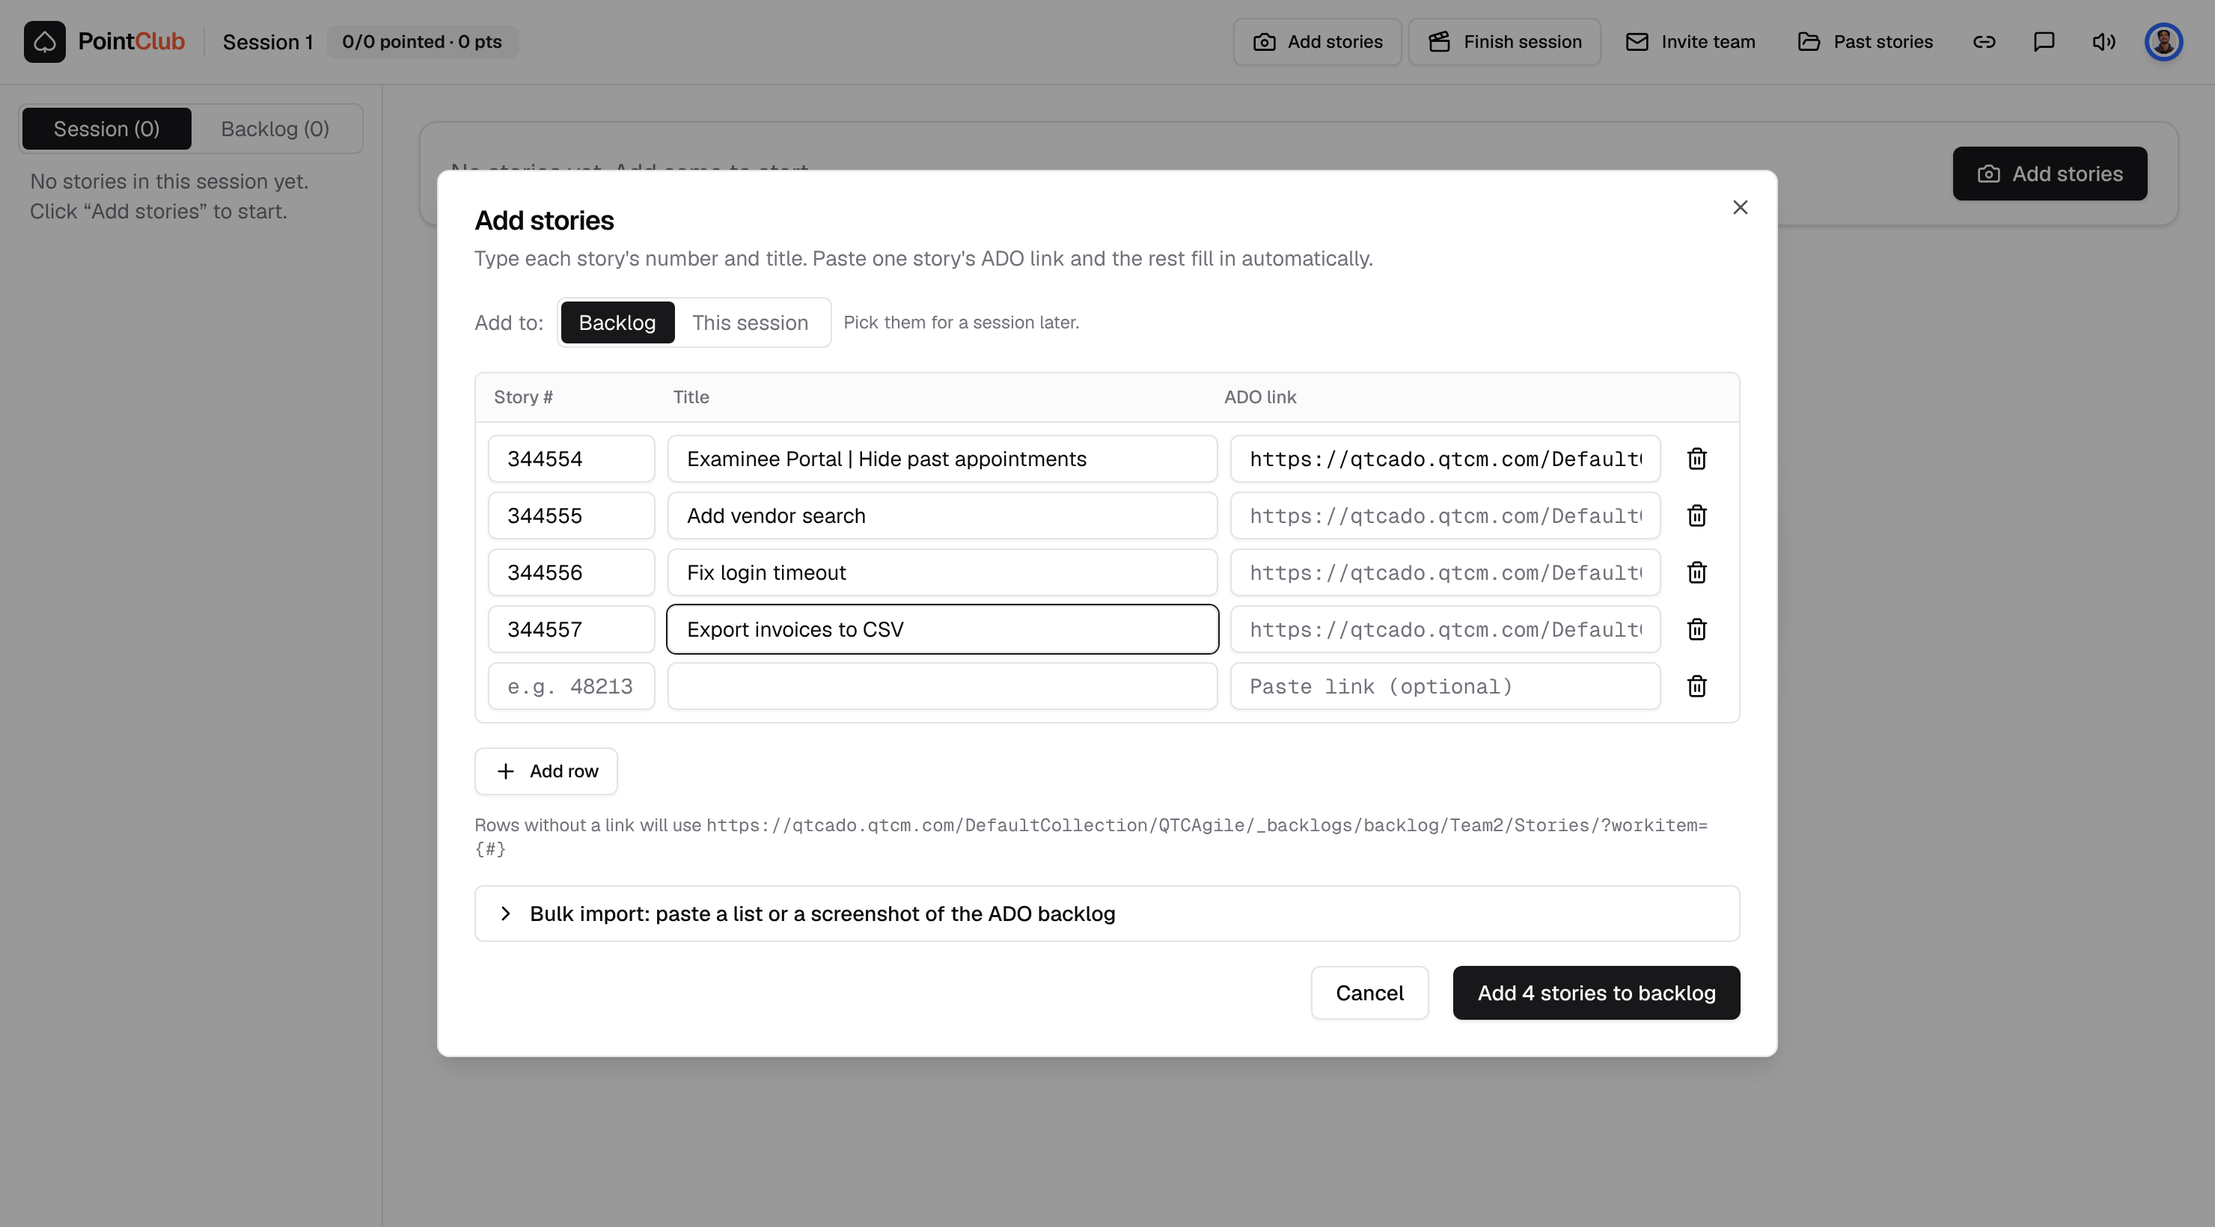
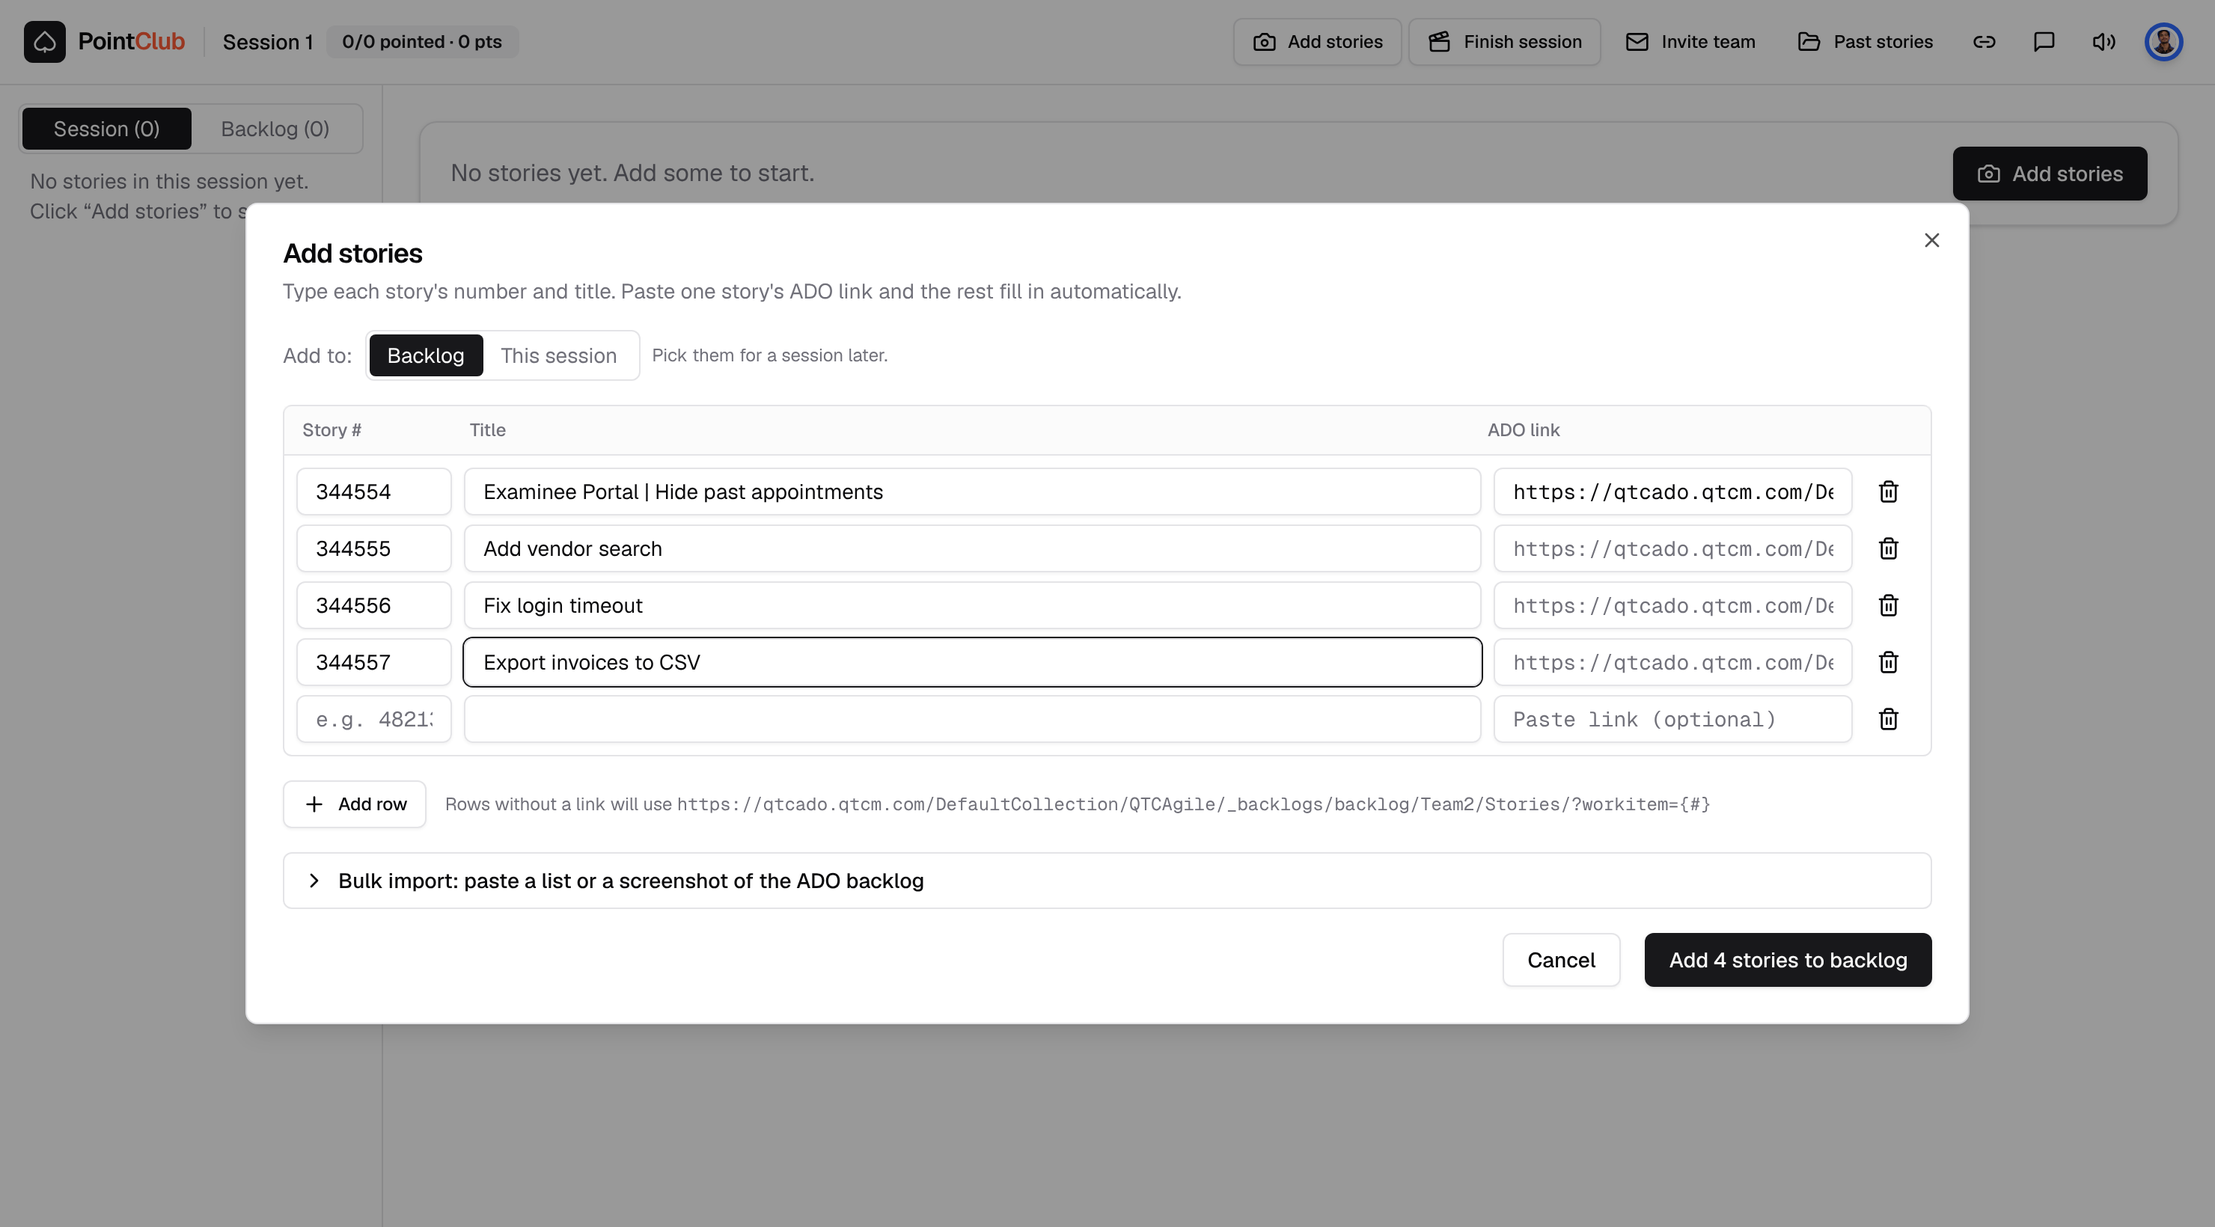
Read ADO backlog screenshots: work item IDs, several at once, bundled reader
Claude-Session: https://claude.ai/code/session_01EANrJrMtc4n72hiZrseqCf

Changed region(s): [[0.0932, 0.1244, 0.9014, 0.8707], [0.5595, 0.311, 0.5905, 0.3421]]

diff --git a/src/screens/LoadStories.tsx b/src/screens/LoadStories.tsx
@@ -33,7 +33,8 @@ export function LoadStories({ api, open, onClose, defaultTo = 'backlog' }: { api
   const [raw, setRaw] = useState('')
   const [bulkOpen, setBulkOpen] = useState(false)
   const [progress, setProgress] = useState<number | null>(null)
-  const [preview, setPreview] = useState<string | null>(null)
+  const [shots, setShots] = useState<{ thumb: string; found: number | null }[]>([])
+  const setPreview = (_: null) => setShots([])
   const [saving, setSaving] = useState(false)
   const [error, setError] = useState<string | null>(null)
   const [savedNote, setSavedNote] = useState<string | null>(null)
@@ -61,12 +62,24 @@ export function LoadStories({ api, open, onClose, defaultTo = 'backlog' }: { api
     return [...merged, blank()]
   })
 
-  const handleImage = async (file: Blob) => {
-    setPreview(URL.createObjectURL(file)); setProgress(0); setError(null)
-    try { const text = await readImage(file, setProgress); setRaw(text); addParsed(parseStories(text)) }
-    catch (e: any) { setError('Could not read the screenshot: ' + (e?.message ?? e)) }
+  /** Read one or more screenshots in turn; each adds its stories to the table (no duplicate IDs). */
+  const handleImages = async (files: Blob[]) => {
+    setError(null)
+    for (const file of files.filter((f) => f.type.startsWith('image/'))) {
+      const thumb = URL.createObjectURL(file)
+      setShots((s) => [...s, { thumb, found: null }]); setProgress(0)
+      try {
+        const found = parseStories(await readImage(file, setProgress))
+        addParsed(found)
+        setShots((s) => s.map((x) => (x.thumb === thumb ? { ...x, found: found.length } : x)))
+      } catch (e: any) {
+        setShots((s) => s.filter((x) => x.thumb !== thumb))
+        setError('Could not read a screenshot: ' + (e?.message ?? e))
+      }
+    }
     setProgress(null)
   }
+  const handleImage = (file: Blob) => handleImages([file])
   useEffect(() => {
     if (!open) return
     const onPaste = (e: ClipboardEvent) => {
@@ -91,7 +104,7 @@ export function LoadStories({ api, open, onClose, defaultTo = 'backlog' }: { api
 
   return (
     <Dialog open={open} onOpenChange={(o) => !o && !saving && onClose()}>
-      <DialogContent className="max-w-4xl">
+      <DialogContent className="max-w-6xl">
         <DialogHeader>
           <DialogTitle>Add stories</DialogTitle>
           <DialogDescription>Type each story's number and title. Paste one story's ADO link and the rest fill in automatically.</DialogDescription>
@@ -111,14 +124,14 @@ export function LoadStories({ api, open, onClose, defaultTo = 'backlog' }: { api
         </div>
 
         <div className="rounded-md border">
-          <div className="grid grid-cols-[7rem_1fr_minmax(0,18rem)_2.25rem] gap-2 border-b bg-muted/40 px-3 py-2 text-xs font-medium text-muted-foreground">
+          <div className="grid grid-cols-[6.5rem_1fr_minmax(0,15rem)_2.25rem] gap-2 border-b bg-muted/40 px-3 py-2 text-xs font-medium text-muted-foreground">
             <span>Story #</span><span>Title</span><span>ADO link</span><span />
           </div>
           <div className="max-h-[42vh] overflow-y-auto p-2 grid gap-1.5">
             {rows.map((r, i) => (
-              <div key={i} className="grid grid-cols-[7rem_1fr_minmax(0,18rem)_2.25rem] items-center gap-2">
+              <div key={i} className="grid grid-cols-[6.5rem_1fr_minmax(0,15rem)_2.25rem] items-center gap-2">
                 <Input className="h-8 font-mono" placeholder="e.g. 48213" inputMode="numeric" value={r.number} onChange={(e) => setRow(i, { number: e.target.value.replace(/\D/g, '') })} aria-label={`Story number, row ${i + 1}`} />
-                <Input className="h-8" placeholder={i === 0 ? 'Story title' : ''} value={r.title} onChange={(e) => setRow(i, { title: e.target.value })} aria-label={`Title, row ${i + 1}`} />
+                <Input className="h-8" title={r.title} placeholder={i === 0 ? "Story title" : ""} value={r.title} onChange={(e) => setRow(i, { title: e.target.value })} aria-label={`Title, row ${i + 1}`} />
                 <Input className="h-8 font-mono text-xs" placeholder={r.number && pattern ? buildAdoUrl(pattern, r.number) : 'Paste link (optional)'} value={r.url} onChange={(e) => setRow(i, { url: e.target.value })} aria-label={`ADO link, row ${i + 1}`} />
                 <Button variant="ghost" size="icon" className="h-8 w-8" aria-label="Remove row" onClick={() => setRows((x) => (x.length > 1 ? x.filter((_, j) => j !== i) : [blank()]))}><Trash2 /></Button>
               </div>
@@ -136,12 +149,30 @@ export function LoadStories({ api, open, onClose, defaultTo = 'backlog' }: { api
           </button>
           {bulkOpen && (
             <div className="grid grid-cols-2 gap-4 border-t p-3">
-              <label className="flex min-h-36 cursor-pointer flex-col items-center justify-center gap-2 rounded-lg border border-dashed p-4 text-center text-sm text-muted-foreground transition-colors hover:bg-secondary/50"
-                onDragOver={(e) => e.preventDefault()} onDrop={(e) => { e.preventDefault(); const f = e.dataTransfer.files[0]; if (f) handleImage(f) }}>
-                <input type="file" accept="image/*" className="hidden" onChange={(e) => e.target.files?.[0] && handleImage(e.target.files[0])} />
-                {preview ? <img src={preview} className="max-h-32 rounded-md" /> : <><ImageUp className="h-7 w-7" /><span>Drop a screenshot, click to choose, or press <kbd className="rounded border bg-muted px-1 font-mono text-xs">Ctrl V</kbd><br /><span className="text-xs">Read on this computer, never uploaded.</span></span></>}
-                {progress != null && <span className="flex items-center gap-2 text-foreground"><Loader2 className="h-4 w-4 animate-spin" /> Reading… {Math.round(progress * 100)}%</span>}
-              </label>
+              <div className="grid gap-2">
+                <label className="flex min-h-28 cursor-pointer flex-col items-center justify-center gap-2 rounded-lg border border-dashed p-4 text-center text-sm text-muted-foreground transition-colors hover:bg-secondary/50"
+                  onDragOver={(e) => e.preventDefault()} onDrop={(e) => { e.preventDefault(); handleImages([...e.dataTransfer.files]) }}>
+                  <input type="file" accept="image/*" multiple className="hidden" onChange={(e) => { handleImages([...(e.target.files ?? [])]); e.target.value = '' }} />
+                  <ImageUp className="h-7 w-7" />
+                  <span>Drop ADO screenshots here, click to choose (several at once is fine), or press <kbd className="rounded border bg-muted px-1 font-mono text-xs">Ctrl V</kbd><br /><span className="text-xs">Read on this computer, never uploaded.</span></span>
+                  {progress != null && <span className="flex items-center gap-2 text-foreground"><Loader2 className="h-4 w-4 animate-spin" /> Reading… {Math.round(progress * 100)}%</span>}
+                </label>
+                {shots.length > 0 && (
+                  <div className="grid gap-1.5">
+                    <div className="text-xs text-muted-foreground">
+                      Read {shots.reduce((a, s) => a + (s.found ?? 0), 0)} {shots.reduce((a, s) => a + (s.found ?? 0), 0) === 1 ? 'story' : 'stories'} from {shots.length} {shots.length === 1 ? 'screenshot' : 'screenshots'}. Check the table above, then add ADO links if you like.
+                    </div>
+                    <div className="flex flex-wrap gap-2">
+                      {shots.map((s) => (
+                        <div key={s.thumb} className="relative">
+                          <img src={s.thumb} className="h-14 w-24 rounded border object-cover object-left-top" />
+                          <span className="absolute bottom-0.5 right-0.5 rounded bg-background/90 px-1 text-[10px] font-medium">{s.found == null ? '…' : `${s.found} found`}</span>
+                        </div>
+                      ))}
+                    </div>
+                  </div>
+                )}
+              </div>
               <div className="grid gap-2">
                 <Textarea className="h-28 font-mono text-xs" placeholder={'One story per line:\n48213 Export invoices to CSV\n48214 Add vendor search'} value={raw} onChange={(e) => setRaw(e.target.value)} aria-label="Paste stories" />
                 <Button variant="secondary" size="sm" disabled={!raw.trim()} onClick={() => { addParsed(parseStories(raw)); setRaw('') }}>Put these in the table</Button>

diff --git a/src/lib/parseStories.ts b/src/lib/parseStories.ts
@@ -1,11 +1,42 @@
 export interface ParsedStory { number: string; title: string; url?: string }
 
-const NUM_LINE = /^(?:.*?\b(?:user story|story|bug|task|pbi|feature)\b\s*)?#?(\d{3,8})\s*[:.\-–—|)\]]*\s*(.*)$/i
 const URL_RE = /(https?:\/\/\S+)/i
+const PREFIX_RE = /^.*?\b(?:user story|story|bug|task|pbi|feature|work item)\b[\s:#.-]*(?=#?[0-9OoIlS]{3,8}\b)/i
+const SHORT_OK = /^(a|ai|ui|qa|it|po|ux|ad|id|ok|v\d|\d)$/i // short words a title may really start with
 
-/** Turn OCR text (or pasted text) into "number + title" rows. A link on the same line becomes that story's link. */
+/** A token that is (almost) all digits, with common OCR slips fixed: O→0, l/I→1, S→5. */
+function asNumber(tok: string | undefined): string | null {
+  if (!tok) return null
+  const t = tok.replace(/^#/, '').replace(/[.,:;)\]]+$/, '')
+  if (!/^[0-9OoIlS]{3,8}$/.test(t) || (t.match(/\d/g)?.length ?? 0) < 3) return null
+  return t.replace(/[Oo]/g, '0').replace(/[Il]/g, '1').replace(/S/g, '5')
+}
+
+/** Drop icon/table junk OCR leaves in front of a title (e.g. "©", "|", "B"), keep real words. */
+function cleanTitle(title: string): string {
+  let t = title.replace(/^[\s:.\-–—|)\]]+/, '')
+  for (let i = 0; i < 2; i++) {
+    const m = t.match(/^(\S+)\s+(.*)$/)
+    if (!m) break
+    const [, first, rest] = m
+    const junk = /^[^A-Za-z0-9]+$/.test(first) || (first.length <= 2 && !SHORT_OK.test(first) && /^[A-Z0-9]/.test(rest))
+    if (!junk) break
+    t = rest
+  }
+  return t
+    .replace(/\s*\|\s*\d+(\.\d+)?\s*(pts?|points?)?\s*$/i, '') // trailing "| 5" effort column
+    .replace(/\s+\d+(\.\d+)?\s*(pts?|points?)$/i, '') // trailing "5 pts"
+    .replace(/[\s|]+$/, '')
+    .replace(/\s{2,}/g, ' ')
+    .trim()
+}
+
+/**
+ * Turn OCR text (or pasted text) into "story number + title" rows.
+ * Handles ADO backlog screenshots where each line is "<row #> <work item ID> <title>": the short row number is
+ * ignored and the long work item ID becomes the story number. A link on the same line becomes the story's link.
+ */
 export function parseStories(text: string): ParsedStory[] {
-  // Bullets and table borders at the edges are noise; a " | " inside a title (common in ADO) is kept.
   const lines = text.split(/\r?\n/).map((l) => l.replace(/[•●○◆■□]/g, ' ').replace(/^[\s|]+|[\s|]+$/g, '').replace(/\s+/g, ' ').trim()).filter(Boolean)
   const out: ParsedStory[] = []
   const seen = new Set<string>()
@@ -15,16 +46,22 @@ export function parseStories(text: string): ParsedStory[] {
     if (url) line = line.replace(url, ' ').replace(/\s+/g, ' ').trim()
     // A bare story link with no number in front: take the number from the link itself.
     if (!line && url) { const n = url.match(/(\d{3,8})(?!.*\d{3,8})/)?.[1]; if (n) line = n }
-    const m = line.match(NUM_LINE)
+    line = line.replace(PREFIX_RE, '')
+
+    const m = line.match(/^#?(\S+)\s*(.*)$/)
     if (!m) continue
-    let [, number, title] = m
+    const rowNum = /^\d{1,4}$/.test(m[1]) // a short leading number may just be the row number
+    let number = asNumber(m[1])
+    let rest = m[2] ?? ''
+    // "<row #> <work item ID> …": a short row number followed by a long ID → use the ID.
+    const m2 = rest.match(/^[:.\-–—|)\]]*\s*#?(\S+)\s*(.*)$/)
+    const second = asNumber(m2?.[1])
+    if (second && second.length >= 5 && rowNum) { number = second; rest = m2![2] ?? '' }
+    if (!number) continue
+
+    let title = cleanTitle(rest)
     // Number alone on a line: the title is usually the next line.
-    if (!title && lines[i + 1] && !NUM_LINE.test(lines[i + 1]) && !URL_RE.test(lines[i + 1])) { title = lines[i + 1]; i++ }
-    title = title
-      .replace(/\s*\|\s*\d+(\.\d+)?\s*(pts?|points?)?\s*$/i, '') // trailing "| 5" effort column
-      .replace(/\s+\d+(\.\d+)?\s*(pts?|points?)?$/i, '') // trailing "5 pts"
-      .replace(/[\s|]+$/, '')
-      .trim()
+    if (!title && lines[i + 1] && !asNumber(lines[i + 1].split(' ')[0]) && !URL_RE.test(lines[i + 1])) { title = cleanTitle(lines[i + 1]); i++ }
     if (!title || title.length < 3 || seen.has(number)) continue
     seen.add(number)
     out.push(url ? { number, title, url } : { number, title })

diff --git a/src/lib/logic.test.ts b/src/lib/logic.test.ts
@@ -37,6 +37,29 @@ New  Active`
   it('skips duplicates and short noise', () => expect(parseStories('1234 ok\n1234 Again title\n555 ab')).toEqual([{ number: '1234', title: 'Again title' }]))
   it('builds links', () => expect(buildAdoUrl('https://x/_workitems/edit/{id}', '42')).toBe('https://x/_workitems/edit/42'))
   it('builds no link from a pattern without {id}', () => expect(buildAdoUrl('https://x/_workitems/edit/48213', '42')).toBe(''))
+  it('reads ADO backlog rows: ignores the row number, uses the work item ID', () => {
+    const ocr = `3         647760  RHRP Portal API | Move to Windows Server 2025 (UAT)
+
+10        655599  Examinee Portal | Show Up to Three Phone Numbers for Text and Voice Opt-In/Opt-Out
+37       650397 Examinee Portal | Fix 508 Findings in Notification Preferences (Opt-In/Opt-Out), Phase 2 Development
+62       648329  Bug ExamTrak | Need Help Signing in? link does not open the Need Help page
+63        648330  Bug: ExamTrak | Need Help link on the Exam Track login page does nothing
+72        655805  Provider Portal: Add 2026 tax forms from Avalara
+84         655906  © Examinee Portal | Hide appointments in error (DBQ #300) from My Appointments
+85  6559O7  B NGV2Services | Add unit tests`
+    expect(parseStories(ocr)).toEqual([
+      { number: '647760', title: 'RHRP Portal API | Move to Windows Server 2025 (UAT)' },
+      { number: '655599', title: 'Examinee Portal | Show Up to Three Phone Numbers for Text and Voice Opt-In/Opt-Out' },
+      { number: '650397', title: 'Examinee Portal | Fix 508 Findings in Notification Preferences (Opt-In/Opt-Out), Phase 2 Development' },
+      { number: '648329', title: 'Bug ExamTrak | Need Help Signing in? link does not open the Need Help page' },
+      { number: '648330', title: 'Bug: ExamTrak | Need Help link on the Exam Track login page does nothing' },
+      { number: '655805', title: 'Provider Portal: Add 2026 tax forms from Avalara' },
+      { number: '655906', title: 'Examinee Portal | Hide appointments in error (DBQ #300) from My Appointments' },
+      { number: '655907', title: 'NGV2Services | Add unit tests' },
+    ])
+  })
+  it('keeps a number that starts the title', () =>
+    expect(parseStories('48213 2026 tax forms')).toEqual([{ number: '48213', title: '2026 tax forms' }]))
   it('keeps a " | " inside a title', () =>
     expect(parseStories('344554 Examinee Portal | Hide past appointments')).toEqual([{ number: '344554', title: 'Examinee Portal | Hide past appointments' }]))
   it('captures a link written on the same line', () =>

diff --git a/src/lib/ocr.ts b/src/lib/ocr.ts
@@ -1,13 +1,42 @@
-// Runs entirely in the browser. The screenshot is never uploaded.
+// Reads screenshots entirely in the browser. The image is never uploaded, and the reader's own files are
+// served by Point Club itself (public/ocr), so it also works on networks that block outside CDNs.
+import type { Worker } from 'tesseract.js'
+
+let workerPromise: Promise<Worker> | null = null
+let progressCb: ((p: number) => void) | undefined
+
+function getWorker() {
+  workerPromise ??= (async () => {
+    const { createWorker, PSM } = await import('tesseract.js')
+    const w = await createWorker('eng', 1, {
+      workerPath: '/ocr/worker.min.js',
+      corePath: '/ocr/',
+      langPath: '/ocr',
+      logger: (m: { status: string; progress: number }) => { if (m.status === 'recognizing text') progressCb?.(m.progress) },
+    })
+    // Treat the screenshot as one block of text lines (a table of rows).
+    await w.setParameters({ tessedit_pageseg_mode: PSM.SINGLE_BLOCK, preserve_interword_spaces: '1' })
+    return w
+  })().catch((e) => { workerPromise = null; throw e })
+  return workerPromise
+}
+
+/** Small UI text reads much better at 2-3x size, in grayscale, with stronger contrast. */
+async function prepare(file: Blob): Promise<HTMLCanvasElement> {
+  const bmp = await createImageBitmap(file)
+  const scale = bmp.width < 1600 ? 3 : 2
+  const c = document.createElement('canvas')
+  c.width = bmp.width * scale; c.height = bmp.height * scale
+  const ctx = c.getContext('2d')!
+  ctx.imageSmoothingQuality = 'high'
+  ctx.filter = 'grayscale(1) contrast(1.4)'
+  ctx.drawImage(bmp, 0, 0, c.width, c.height)
+  return c
+}
+
 export async function readImage(file: File | Blob, onProgress?: (p: number) => void): Promise<string> {
-  const { createWorker } = await import('tesseract.js')
-  const worker = await createWorker('eng', 1, {
-    logger: (m: { status: string; progress: number }) => { if (m.status === 'recognizing text') onProgress?.(m.progress) },
-  })
-  try {
-    const { data } = await worker.recognize(file)
-    return data.text
-  } finally {
-    await worker.terminate()
-  }
+  progressCb = onProgress
+  const [w, canvas] = await Promise.all([getWorker(), prepare(file)])
+  const { data } = await w.recognize(canvas)
+  return data.text
 }
